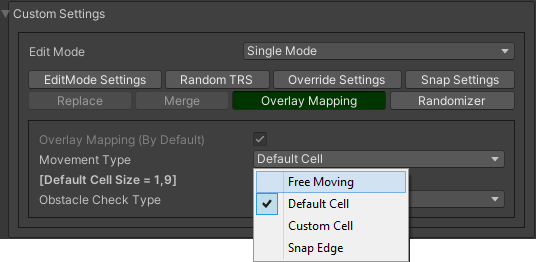
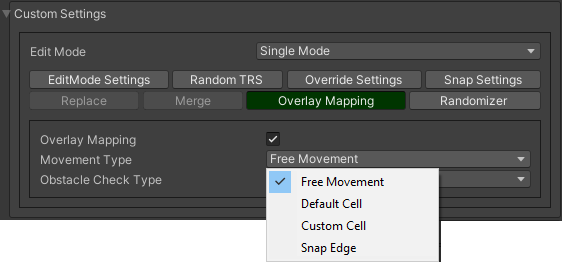
up

diff --git a/docs/source/tabs.rst b/docs/source/tabs.rst
@@ -183,7 +183,7 @@ You can enable it for `MapTile` layer 1-9 (for overlay layer objects and default
 .. image:: images/tabs/OverlayTab/OverlayTab3.png
 
 **Movement type:**
-	* **Free moving** :	object attached to cursor.	
+	* **Free movement** :	object attached to cursor.	
 	* **Default cell** : object snapping to default cell size.
 	* **Custom cell** : object snapping to custom cell size.
 	
